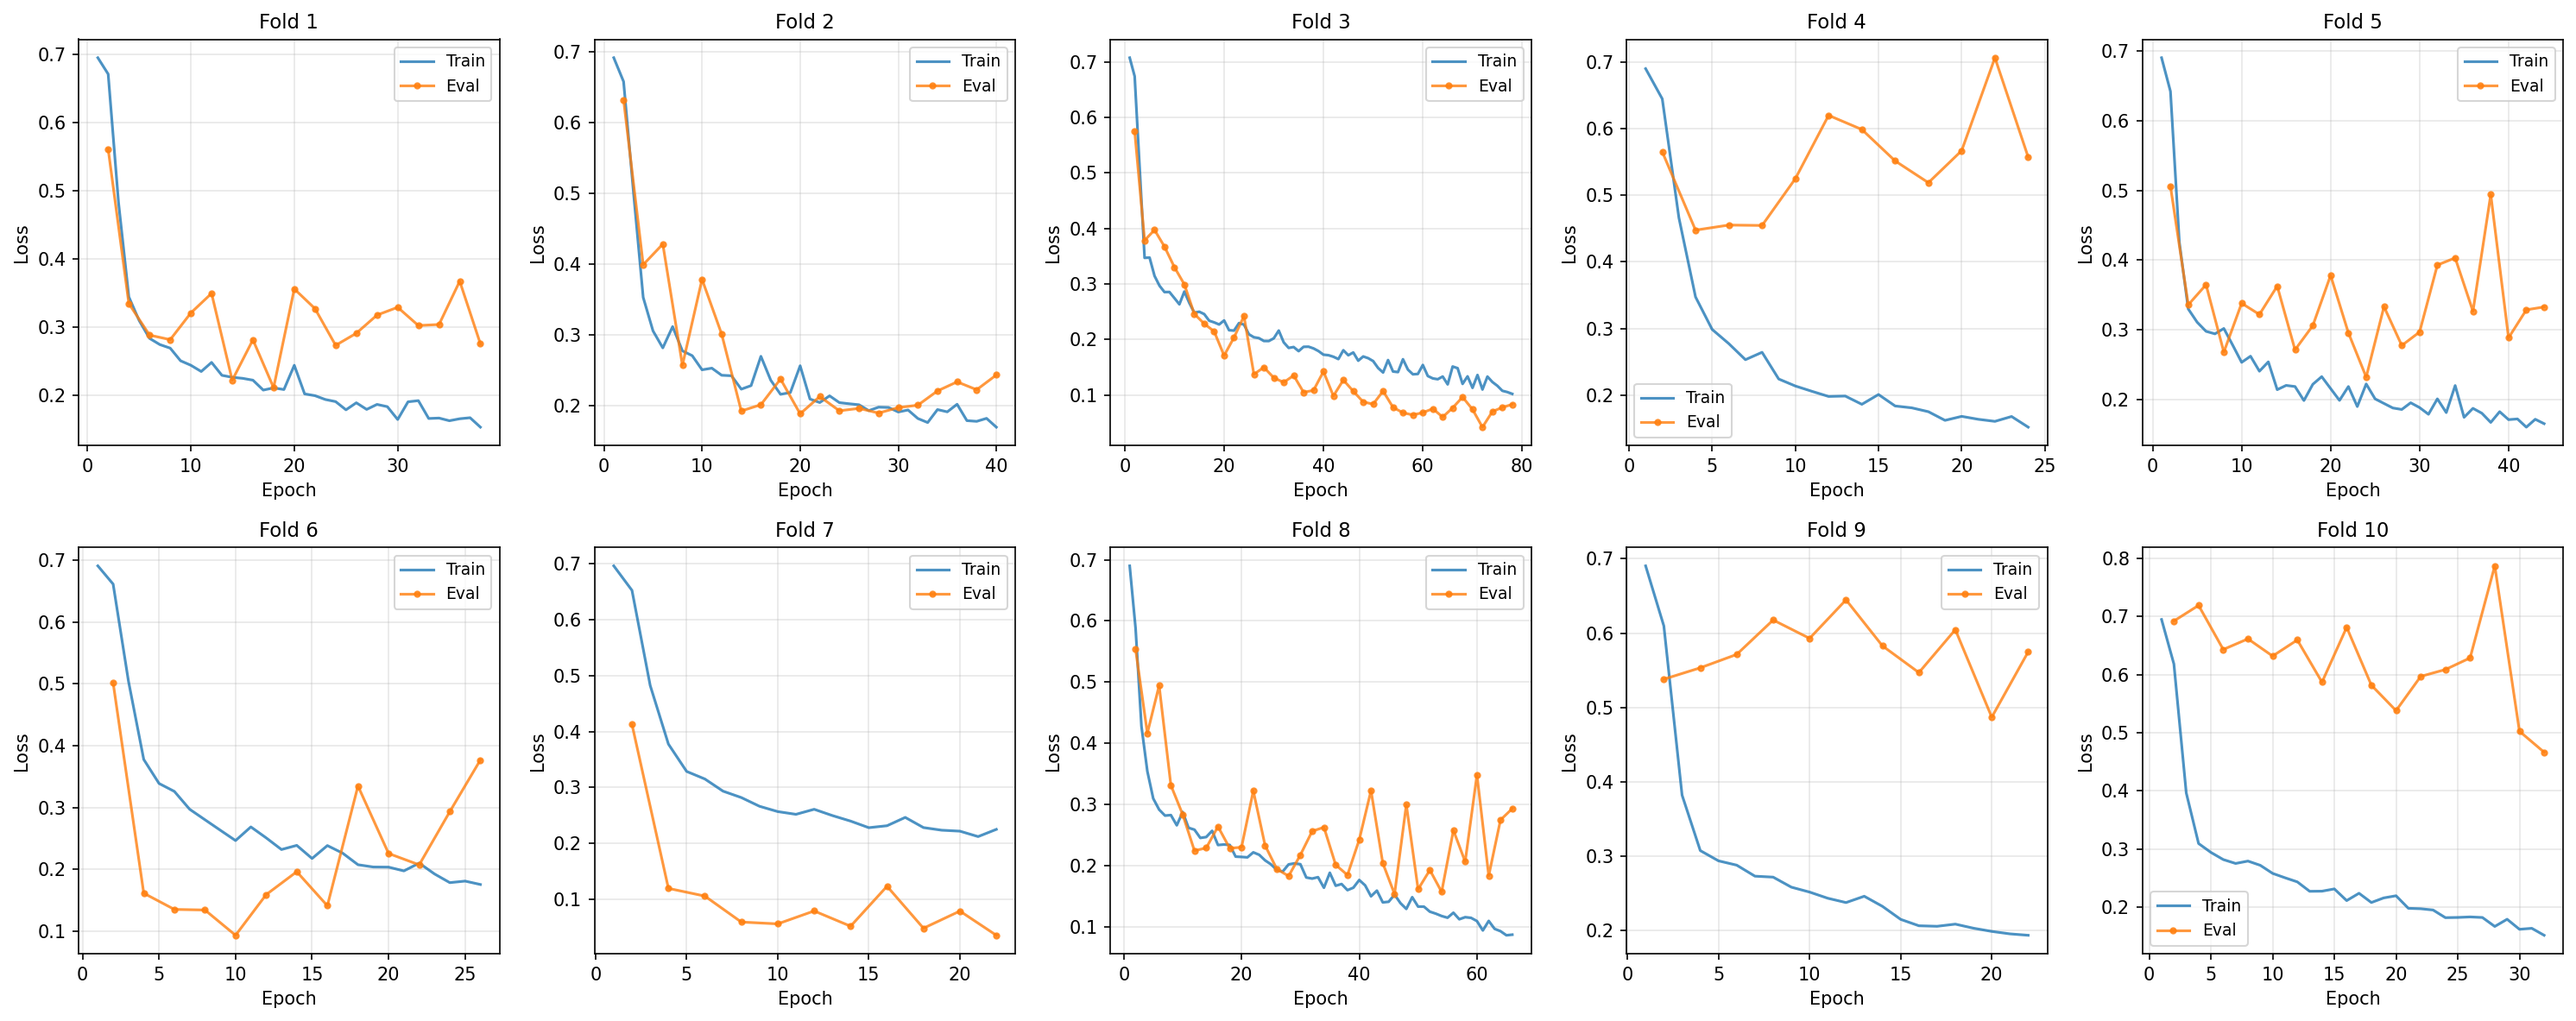
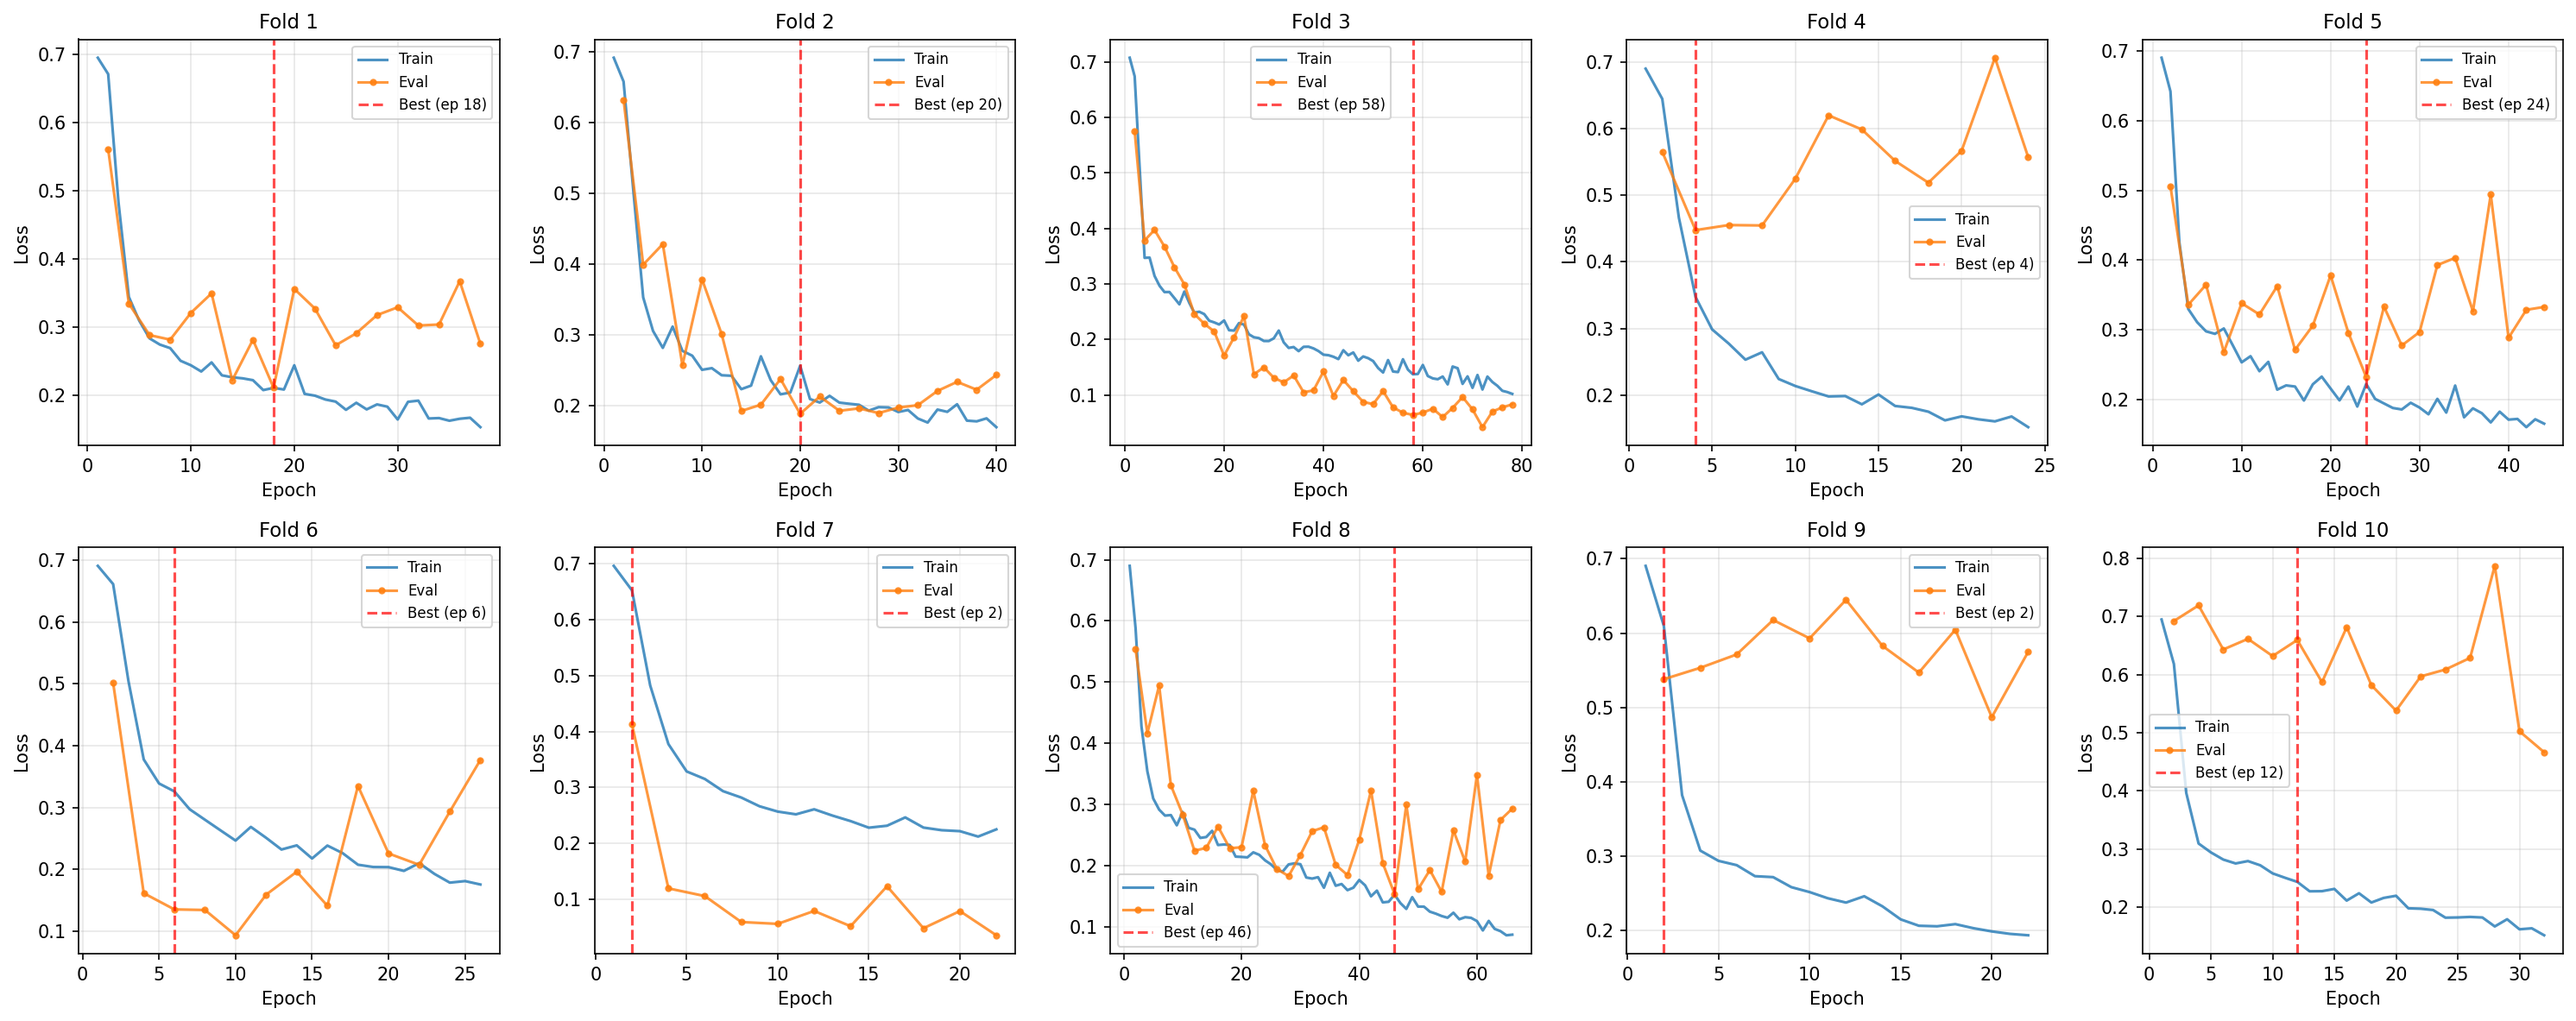
plot_training_curves.py: label best model epoch

diff --git a/plot_training_curves.py b/plot_training_curves.py
@@ -17,13 +17,13 @@ from typing import Dict, List, Tuple
 import matplotlib.pyplot as plt
 
 
-def parse_log_file(log_path: Path) -> Dict[int, Dict[str, List[Tuple[int, float]]]]:
+def parse_log_file(log_path: Path) -> Dict[int, Dict[str, any]]:
     """
     Parse training log file and extract loss values per fold.
 
     :param Path log_path: Path to the training log file
-    :return: Dictionary mapping fold number to train/eval losses
-    :rtype: Dict[int, Dict[str, List[Tuple[int, float]]]]
+    :return: Dictionary mapping fold number to train/eval losses and early stopping info
+    :rtype: Dict[int, Dict[str, any]]
     """
     # Pattern for TRAIN CHUNK lines
     train_pattern = re.compile(
@@ -35,11 +35,25 @@ def parse_log_file(log_path: Path) -> Dict[int, Dict[str, List[Tuple[int, float]
         r"EVAL CHUNK \| Fold (\d+) \| Epoch (\d+)/\d+ \| Loss: ([\d.]+)"
     )
 
-    # Dictionary to store data: fold_num -> {'train': [(epoch, loss)], 'eval': [(epoch, loss)]}
-    data: Dict[int, Dict[str, List[Tuple[int, float]]]] = {}
+    # Pattern for early stopping lines
+    early_stop_pattern = re.compile(
+        r"Early stopping triggered.*Best score: ([\d.]+) at epoch (\d+)"
+    )
+
+    # Dictionary to store data: fold_num -> {'train': [(epoch, loss)], 'eval': [(epoch, loss)], 'best_epoch': int, 'best_loss': float}
+    data: Dict[int, Dict[str, any]] = {}
+    current_fold = None
 
     with open(log_path, "r") as f:
         for line in f:
+            # Check for fold start to track current fold
+            fold_start_match = re.search(r"FOLD (\d+)/\d+", line)
+            if fold_start_match:
+                current_fold = int(fold_start_match.group(1))
+                if current_fold not in data:
+                    data[current_fold] = {"train": [], "eval": [], "best_epoch": None, "best_loss": None}
+                continue
+
             # Try matching TRAIN CHUNK
             train_match = train_pattern.search(line)
             if train_match:
@@ -48,7 +62,7 @@ def parse_log_file(log_path: Path) -> Dict[int, Dict[str, List[Tuple[int, float]
                 loss = float(train_match.group(3))
 
                 if fold_num not in data:
-                    data[fold_num] = {"train": [], "eval": []}
+                    data[fold_num] = {"train": [], "eval": [], "best_epoch": None, "best_loss": None}
 
                 data[fold_num]["train"].append((epoch, loss))
                 continue
@@ -61,9 +75,24 @@ def parse_log_file(log_path: Path) -> Dict[int, Dict[str, List[Tuple[int, float]
                 loss = float(eval_match.group(3))
 
                 if fold_num not in data:
-                    data[fold_num] = {"train": [], "eval": []}
+                    data[fold_num] = {"train": [], "eval": [], "best_epoch": None, "best_loss": None}
 
                 data[fold_num]["eval"].append((epoch, loss))
+                continue
+
+            # Try matching early stopping
+            early_stop_match = early_stop_pattern.search(line)
+            if early_stop_match and current_fold is not None:
+                _best_score = float(early_stop_match.group(1))
+                best_epoch = int(early_stop_match.group(2))
+
+                if current_fold in data:
+                    data[current_fold]["best_epoch"] = best_epoch
+                    # Find the actual eval loss at the best epoch
+                    for epoch, loss in data[current_fold]["eval"]:
+                        if epoch == best_epoch:
+                            data[current_fold]["best_loss"] = loss
+                            break
 
     return data
 
@@ -73,6 +102,8 @@ def plot_fold_losses(
     train_data: List[Tuple[int, float]],
     eval_data: List[Tuple[int, float]],
     output_dir: Path,
+    best_epoch: int = None,
+    best_loss: float = None,
 ) -> None:
     """
     Plot training and evaluation loss curves for a single fold.
@@ -81,6 +112,8 @@ def plot_fold_losses(
     :param List[Tuple[int, float]] train_data: List of (epoch, loss) tuples for training
     :param List[Tuple[int, float]] eval_data: List of (epoch, loss) tuples for evaluation
     :param Path output_dir: Directory to save the plot
+    :param int best_epoch: Best epoch from early stopping (optional)
+    :param float best_loss: Best loss value at early stopping (optional)
     :return: None
     :rtype: None
     """
@@ -105,6 +138,17 @@ def plot_fold_losses(
         markersize=4,
     )
 
+    # Add vertical line at best model epoch if available
+    if best_epoch is not None:
+        plt.axvline(
+            x=best_epoch,
+            color="red",
+            linestyle="--",
+            linewidth=2,
+            alpha=0.7,
+            label=f"Best Model (epoch {best_epoch})",
+        )
+
     plt.xlabel("Epoch", fontsize=12)
     plt.ylabel("Loss", fontsize=12)
     plt.title(f"Training and Evaluation Loss - Fold {fold_num}", fontsize=14)
@@ -123,12 +167,12 @@ def plot_fold_losses(
 
 
 def plot_all_folds_combined(
-    data: Dict[int, Dict[str, List[Tuple[int, float]]]], output_dir: Path
+    data: Dict[int, Dict[str, any]], output_dir: Path
 ) -> None:
     """
     Plot all folds' loss curves in a single figure with subplots.
 
-    :param Dict[int, Dict[str, List[Tuple[int, float]]]] data: Parsed fold data
+    :param Dict[int, Dict[str, any]] data: Parsed fold data
     :param Path output_dir: Directory to save the plot
     :return: None
     :rtype: None
@@ -150,6 +194,8 @@ def plot_all_folds_combined(
 
         train_data = fold_data["train"]
         eval_data = fold_data["eval"]
+        best_epoch = fold_data.get("best_epoch")
+        best_loss = fold_data.get("best_loss")
 
         # Extract epochs and losses
         train_epochs, train_losses = zip(*train_data) if train_data else ([], [])
@@ -167,10 +213,21 @@ def plot_all_folds_combined(
             markersize=3,
         )
 
+        # Add vertical line at best model epoch if available
+        if best_epoch is not None:
+            ax.axvline(
+                x=best_epoch,
+                color="red",
+                linestyle="--",
+                linewidth=1.5,
+                alpha=0.7,
+                label=f"Best (ep {best_epoch})",
+            )
+
         ax.set_xlabel("Epoch", fontsize=10)
         ax.set_ylabel("Loss", fontsize=10)
         ax.set_title(f"Fold {fold_num}", fontsize=11)
-        ax.legend(fontsize=9)
+        ax.legend(fontsize=8)
         ax.grid(True, alpha=0.3)
 
     # Hide unused subplots
@@ -219,7 +276,12 @@ def main() -> None:
     for fold_num in sorted(data.keys()):
         fold_data = data[fold_num]
         plot_fold_losses(
-            fold_num, fold_data["train"], fold_data["eval"], output_dir
+            fold_num,
+            fold_data["train"],
+            fold_data["eval"],
+            output_dir,
+            fold_data.get("best_epoch"),
+            fold_data.get("best_loss"),
         )
 
     # Plot all folds combined
